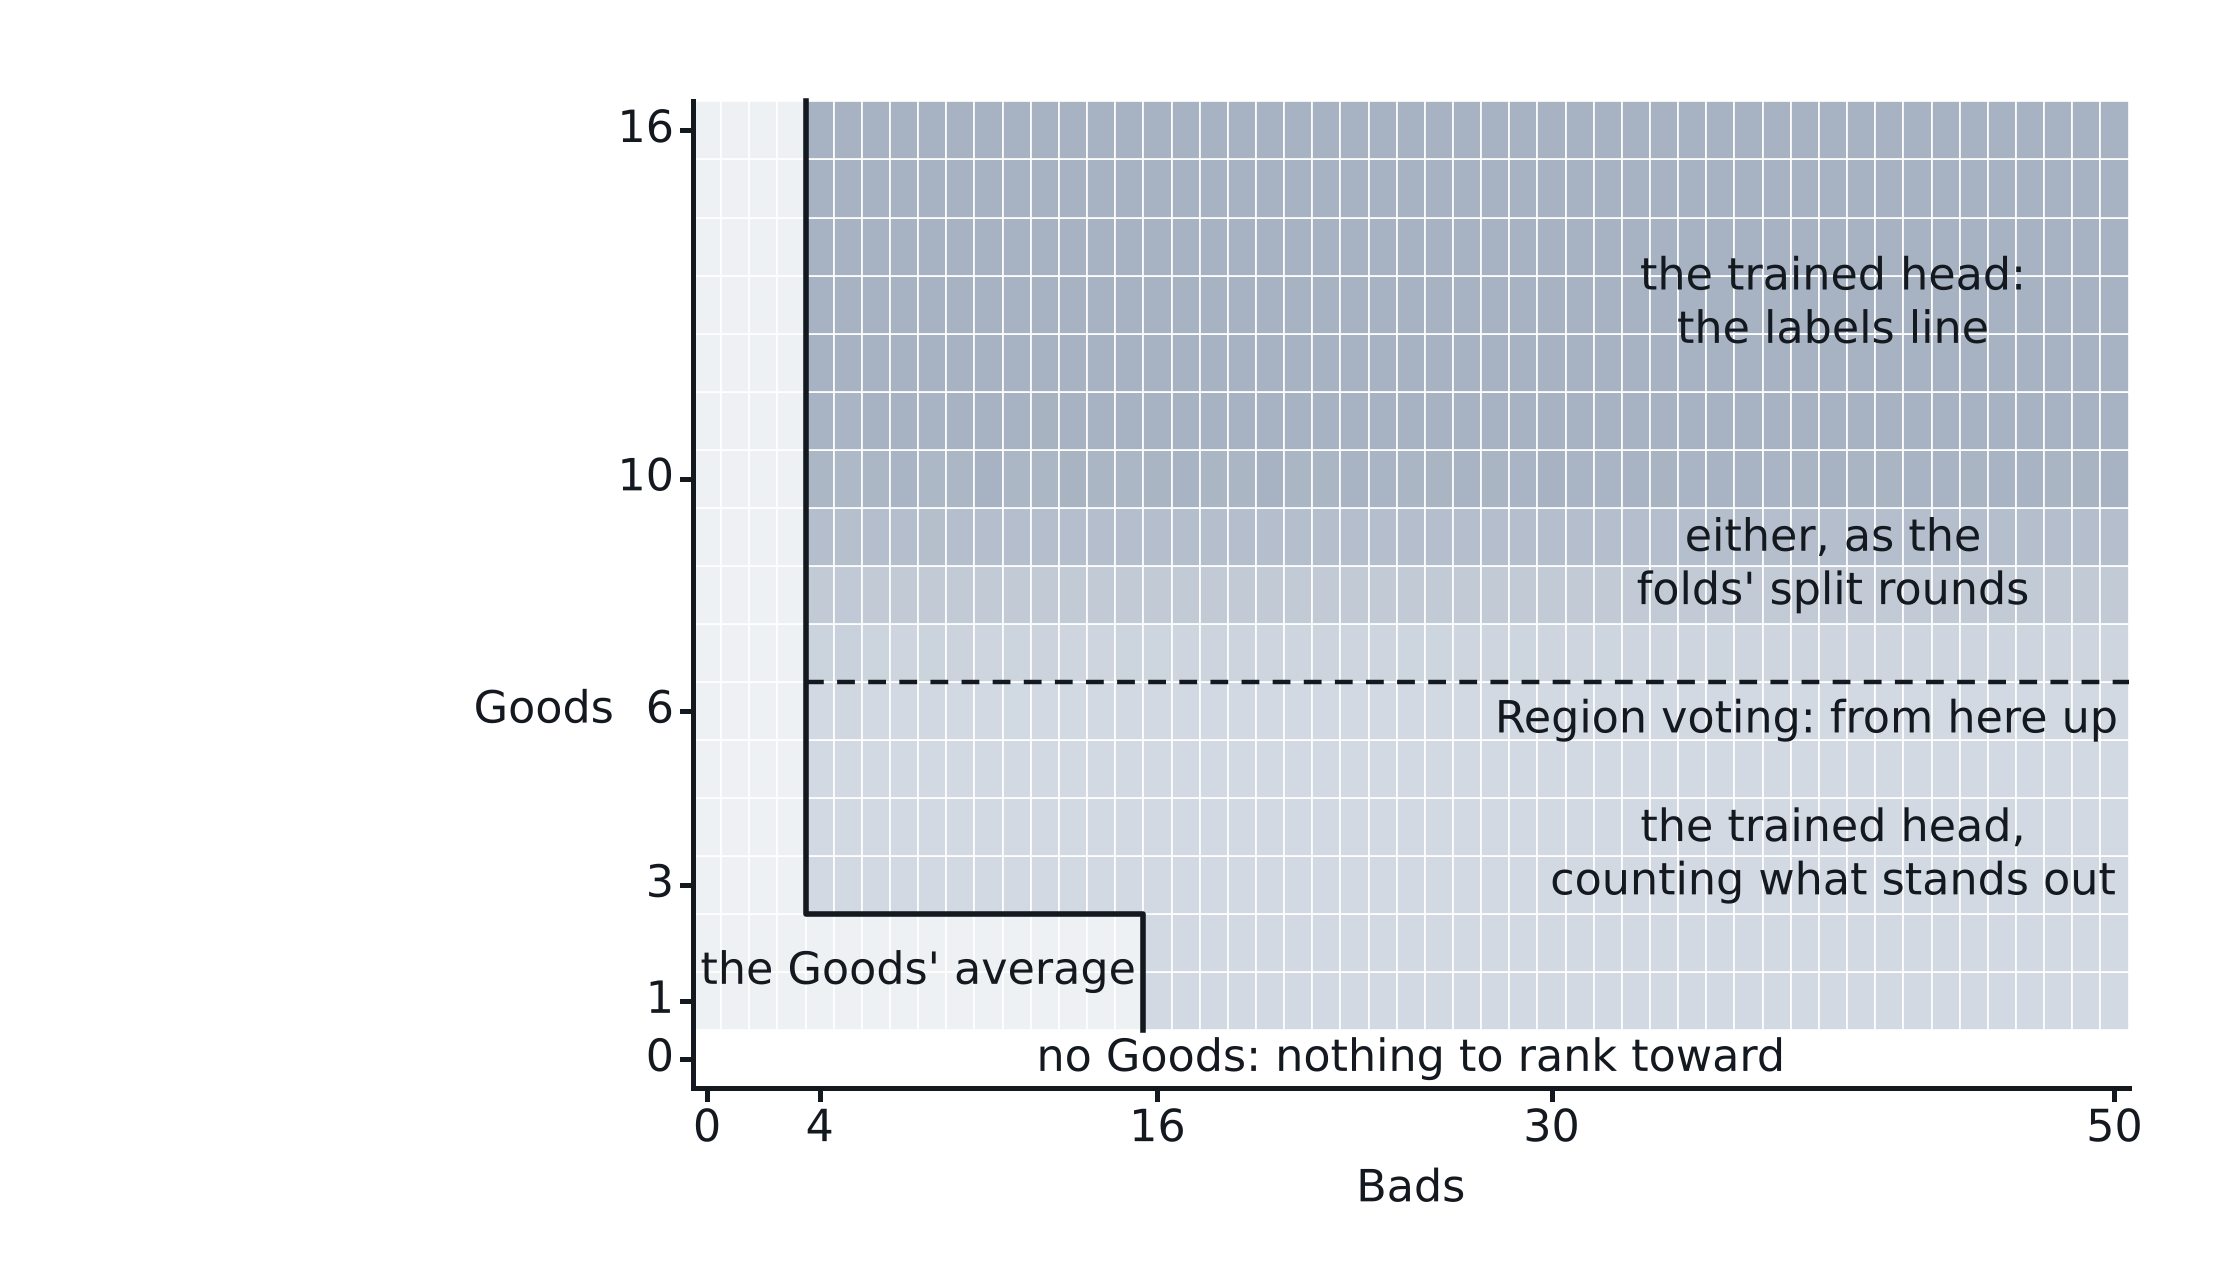
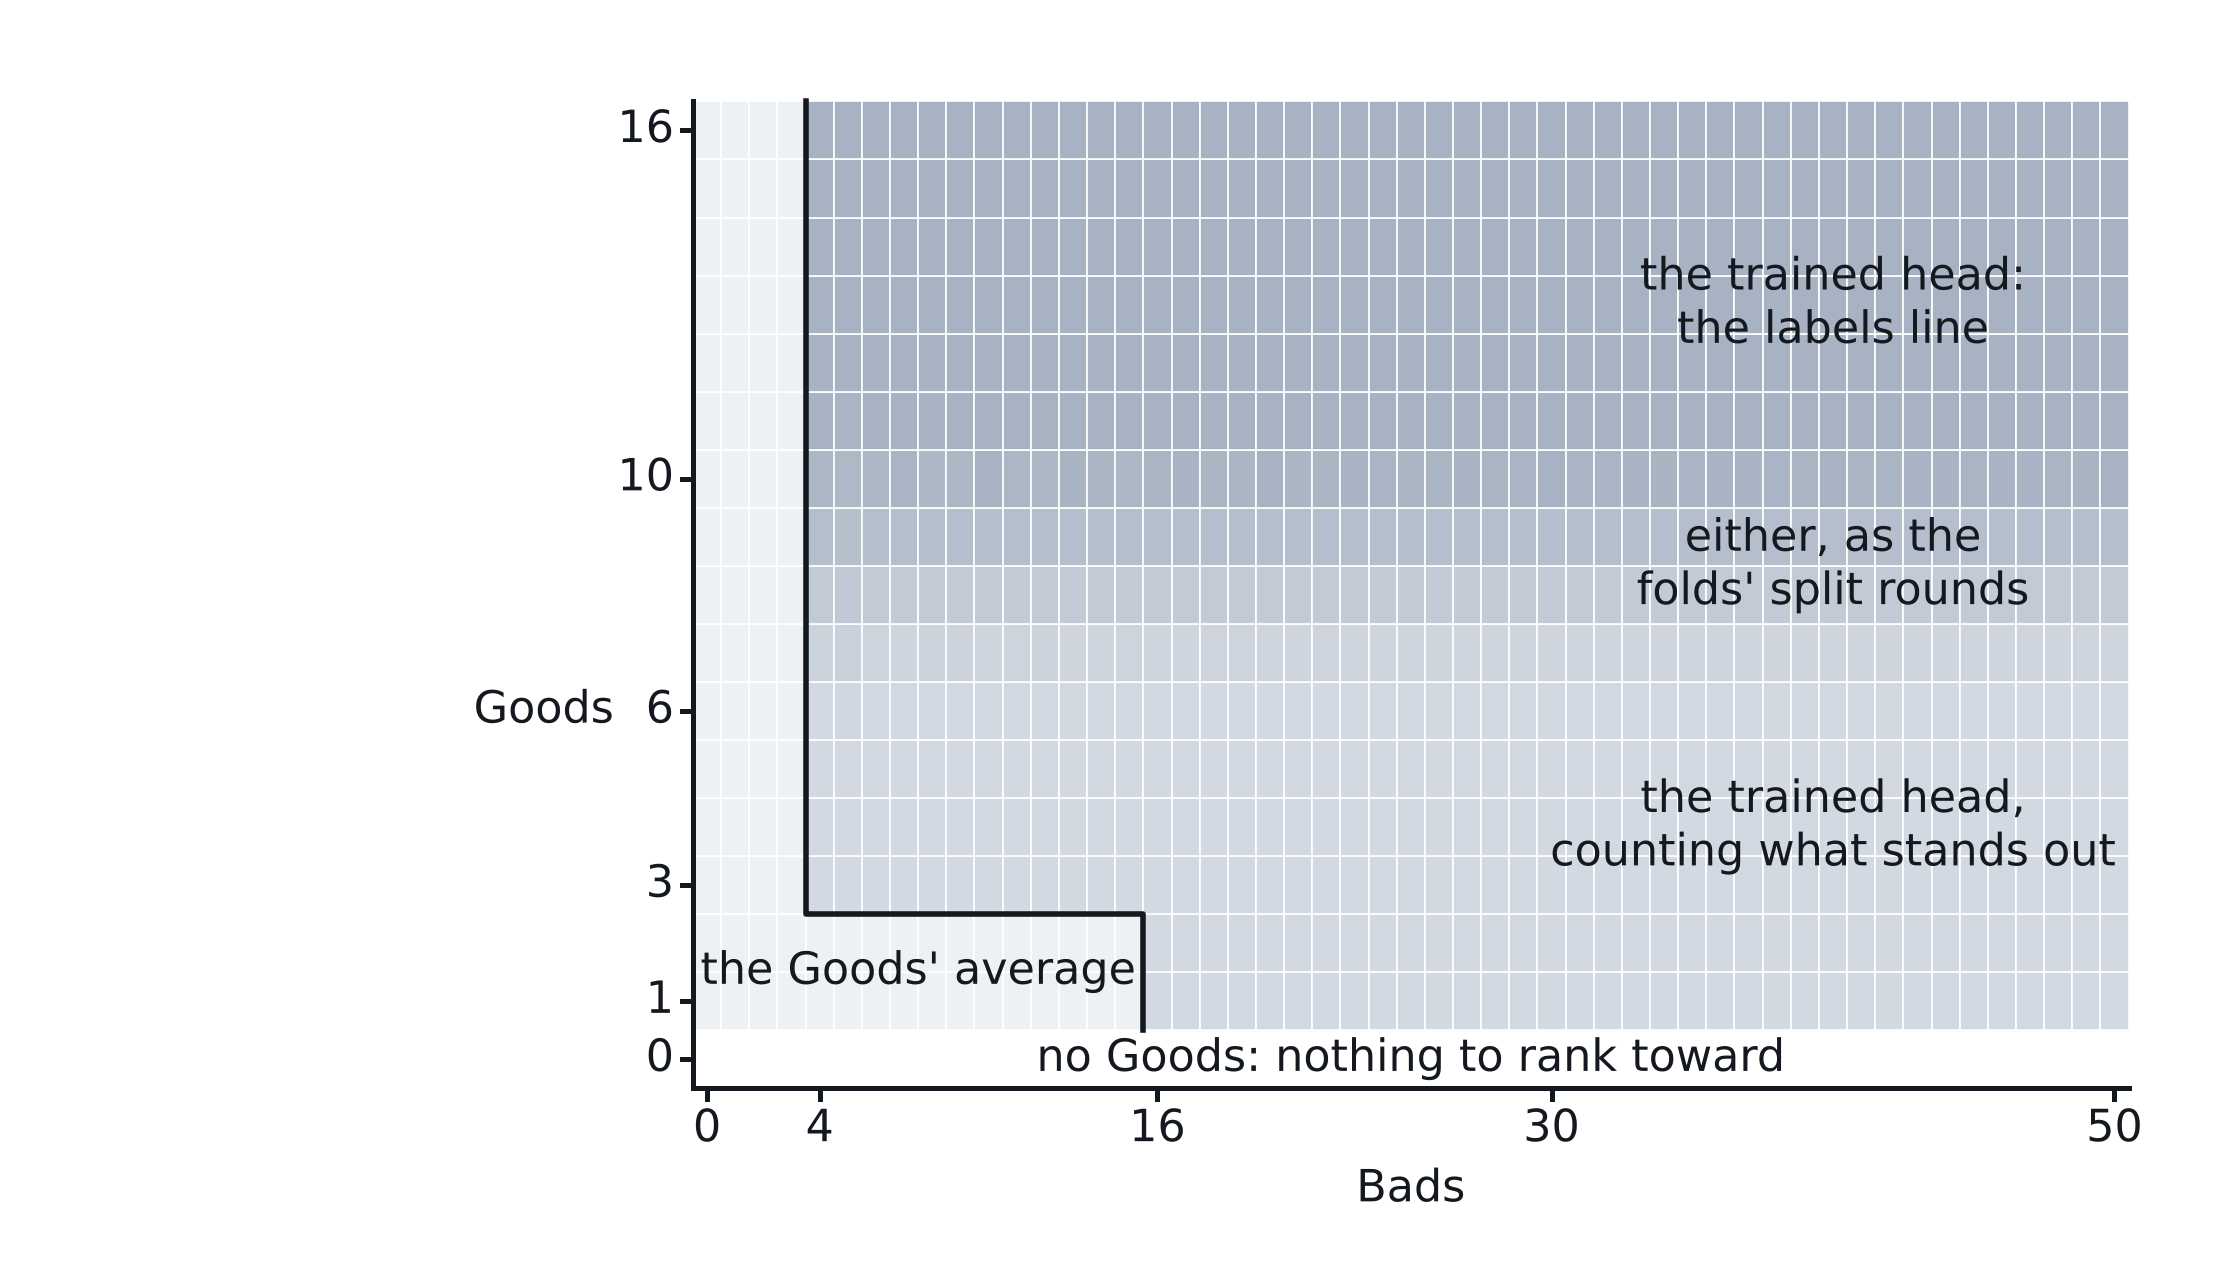
Slides: Lay of the Land and Inside Job are Binary-only
Region voting arrives in section VIII, so Lay of the Land no longer draws
the patch space's labels-line edge, and neither map slide's notes compare
patch spaces or say "single-vector". The figure no longer computes the patch
split at all; the counting region's name moves back to the middle of its
rows.

Claude-Session: https://claude.ai/code/session_015JYDYJSoKrimV2DtawW9RR

Changed region(s): [[0.6498, 0.5312, 0.9592, 0.7188]]

diff --git a/slides/figs/src/make-calib-figs.py b/slides/figs/src/make-calib-figs.py
@@ -6284,13 +6284,12 @@ def _land_p_labels(n_good: int, n_bad: int, split: float) -> float:
 
 @functools.lru_cache(maxsize=None)
 def _land_grid() -> dict:
-    """Every cell's strategy, from the shipped tiers and constants: single-vector spaces, and the patch boundary."""
+    """Every cell's strategy on a single-vector space (the Binary path), from the shipped tiers and constants."""
     from vtscore.detectors.label_quota import TIER_TRAINED, label_quota, query_holds  # noqa: PLC0415
     from vtscore.training.thresholds.knobs import PRODUCTION_SPLIT_BY_SPACE  # noqa: PLC0415
 
     kind = np.empty((LAND_G + 1, LAND_B + 1), dtype=object)
     p_labels = np.zeros((LAND_G + 1, LAND_B + 1))
-    p_patch = np.zeros((LAND_G + 1, LAND_B + 1))
     held = np.zeros((LAND_G + 1, LAND_B + 1), dtype=bool)
     for g in range(LAND_G + 1):
         for b in range(LAND_B + 1):
@@ -6302,9 +6301,8 @@ def _land_grid() -> dict:
                 kind[g, b] = "centroid"
             else:
                 p_labels[g, b] = _land_p_labels(g, b, PRODUCTION_SPLIT_BY_SPACE["single_vector"])
-                p_patch[g, b] = _land_p_labels(g, b, PRODUCTION_SPLIT_BY_SPACE["patch"])
                 kind[g, b] = "trained"
-    return {"kind": kind, "p": p_labels, "p_patch": p_patch, "held": held}
+    return {"kind": kind, "p": p_labels, "held": held}
 
 
 def lay_of_the_land_fig() -> None:
@@ -6314,9 +6312,10 @@ def lay_of_the_land_fig() -> None:
     and faces). Below the quota the Goods' average; past it the trained head,
     counting what stands out until its folds hold out six Goods, then the
     labels line. Where the folds' split rounds either way, the cell's grey is
-    mixed in proportion to the chance it is the labels line. A dashed rule
-    marks where the labels line starts on a patch space, and the last page
-    hatches where a typed query keeps its own set. Every boundary is computed
+    mixed in proportion to the chance it is the labels line, and the last
+    page fades where a typed query keeps its own set. Binary only: the room
+    meets region voting, whose folds split another way, sections later, so
+    the slide never names it. Every boundary is computed
     from the shipped functions and constants (`label_quota`, `query_holds`,
     `_dithered_count`, `PRODUCTION_SPLIT_BY_SPACE`, `HEAD_COUNT_GOODS`).
     """
@@ -6414,23 +6413,13 @@ def _land_quota(ax: plt.Axes, stage: int) -> None:
     _, _, cw, ch = _land_cell(0, 0)
     edge = [(BAD_QUOTA, LAND_G + 1), (BAD_QUOTA, GOOD_QUOTA), (DRY_BAD_QUOTA, GOOD_QUOTA), (DRY_BAD_QUOTA, 1)]
     ax.plot([x0 + b * cw for b, _ in edge], [y0 + g * ch for _, g in edge], color=INK, linewidth=2.0, zorder=4)
-    _land_name(ax, LAND_NAME_B, 4.0 if stage >= 3 else 8.0, "the trained head,\ncounting what stands out")
+    _land_name(ax, LAND_NAME_B, 4.5 if stage >= 3 else 8.0, "the trained head,\ncounting what stands out")
 
 
 def _land_labels(ax: plt.Axes) -> None:
-    """Page 3: the labels line, the Goods where the split decides, and where a patch space always has it."""
-    from vtscore.detectors.label_quota import BAD_QUOTA, DRY_BAD_QUOTA  # noqa: PLC0415
-
-    x0, y0, x1, _ = LAND_BOX
-    _, _, cw, ch = _land_cell(0, 0)
+    """Page 3: the labels line, and the Goods where the split decides."""
     _land_name(ax, LAND_NAME_B, 13.5, "the trained head:\nthe labels line")
     _land_name(ax, LAND_NAME_B, 9.0, "either, as the\nfolds' split rounds")
-    p_patch = _land_grid()["p_patch"]
-    patch_g = int(min(g for g in range(LAND_G + 1) if (p_patch[g, DRY_BAD_QUOTA:] >= 1.0).all()))
-    y = y0 + patch_g * ch
-    ax.plot([x0 + BAD_QUOTA * cw, x1], [y, y], color=INK, linewidth=1.6, linestyle=(0, (4, 3)), zorder=4)
-    ax.text(x1 - 0.1, y - LABEL_GAP, "Region voting: from here up", ha="right", va="top", fontsize=16, color=INK,
-            zorder=6)  # fmt: skip
 
 
 def _land_query(ax: plt.Axes) -> None:

diff --git a/slides/fragments/lay-of-the-land.md b/slides/fragments/lay-of-the-land.md
@@ -11,9 +11,9 @@
 <!-- build: figs/calib-lay-of-the-land.build3.png -->
 
 <!-- Changing Hands as a map: Goods up, Bads across, one cell for every
-     labelset, and which line the app draws for it. A single-vector space,
-     the Binary path and faces. Every edge is computed from the shipped
-     rules, so it moves when they do. -->
+     labelset, and which line the app draws for it, on the Binary path.
+     Every edge is computed from the shipped rules, so it moves when they
+     do. -->
 
 <!-- **a** — No Goods, nothing to rank toward. Below the quota, the Goods'
      average, its line Out Standing's count. -->
@@ -26,12 +26,11 @@
      votes in ten, rounded by a draw seeded from the labels (#3286), so two
      labelsets of one size can split differently. The grey is the share that
      get the labels line: about one in ten at 7 Goods, four in ten at 8,
-     seven at 9, nearly all at 10, all from 12. On a patch space the folds
-     hold out half: half the labelsets at 5 Goods, all from 7, the dashed
-     rule. The next slide draws that band from inside a fold. -->
+     seven at 9, nearly all at 10, all from 12. The next slide draws that
+     band from inside a fold. -->
 
-<!-- **d** — A typed query on a single-vector space keeps showing its own set
-     until thirty labels, whatever the head would draw (#4736), and with no
+<!-- **d** — A typed query keeps showing its own set until thirty labels,
+     whatever the head would draw (#4736), and with no
      Goods it shows that set too. The head still trains under the faded
      cells, and still picks Autopilot's questions; it is only not what the
      user is shown. -->

diff --git a/slides/fragments/inside-job.md b/slides/fragments/inside-job.md
@@ -19,13 +19,12 @@
 
 <!-- **b** — Three Goods a fold, six between the two (#4798): the labels
      line. One flat edge, with no Bads in it. Lay of the Land's band is this
-     edge seen through the split: on the Binary path a fold can hold out
-     three from six Goods in hand, and always does from twelve; on a patch
-     space, from four, and always from seven. -->
+     edge seen through the split: a fold can hold out three from six Goods
+     in hand, and always does from twelve. -->
 
 <!-- **c** — Fifty Bads a fold, a hundred between them (#4490): from there
      the labels line may model the negatives by the Bads' own scores rather
      than a normal fitted to the corpus, if the Bads look like a random
      sample of it. An imported, fully labelled set does; a session's never
-     do, because Autopilot asks about the top. On the Binary path that is
-     about 160 to 170 Bads in hand. -->
+     do, because Autopilot asks about the top. That is about 160 to 170 Bads
+     in hand. -->

diff --git a/slides/fragments/changing-hands.md b/slides/fragments/changing-hands.md
@@ -20,10 +20,10 @@
      when it runs dry (on faces, F-beta over a session went from 0.001 to
      0.47, #4731). Then a trained head, and still the same count, on its
      scores. With two to five Goods its class model cannot place the corpus's
-     matches: at β 4 on faces it kept up to 704 for 4 withheld (#4786). On a
-     single-vector space a typed query keeps showing its own set until thirty
-     labels: a head on three and four returns a worse set than the query's
-     until about vote 27 (#4736). -->
+     matches: at β 4 on faces it kept up to 704 for 4 withheld (#4786). A
+     typed query keeps showing its own set until thirty labels: a head on
+     three and four returns a worse set than the query's until about vote 27
+     (#4736). -->
 
 <!-- **c** — Six held-out Goods, whatever the Bads (#4798): about ten in hand,
      since the folds hold out some six votes in ten. From there it is the
